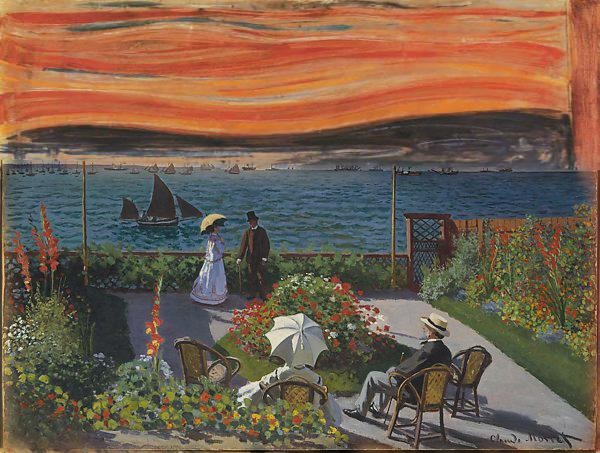
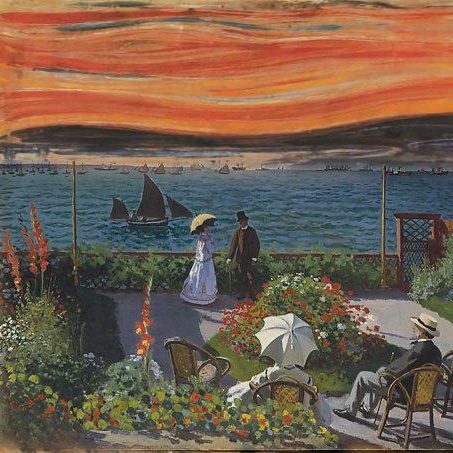
project styling

diff --git a/src/projects/style.css b/src/projects/style.css
@@ -12,14 +12,15 @@
   overflow: hidden;
   width: 400px;
   height: 400px;
+  transition: ease 0.5s;
 }
 
 .project img {
+  border-radius: 20px;
   opacity: 1;
-  object-fit:cover;
-  height: auto;
+  width: 100%;
+  height: 100%;
   transition: .5s ease;
-  backface-visibility: hidden;
 }
 
 /*FIXME: overlay goes over image size*/
@@ -59,8 +60,6 @@
 
 .project:hover img {
   opacity: 0.3;
-  transform: scale(1.05);
-  transition: ease 0.5s;
 }
 
 .project:hover {

diff --git a/src/projects/Projects.js b/src/projects/Projects.js
@@ -2,7 +2,7 @@ import {Link} from 'react-router-dom';
 import './style.css'
 import p1 from '.././images/p1.jpg'
 import p2 from '.././images/p2.jpg'
-import p3 from '.././images/p3.png'
+import p3 from '.././images/p3.gif'
 import p4 from '.././images/p4.png'
 import p5 from '.././images/p5.png'
 import p6 from '.././images/p6.jpg'
